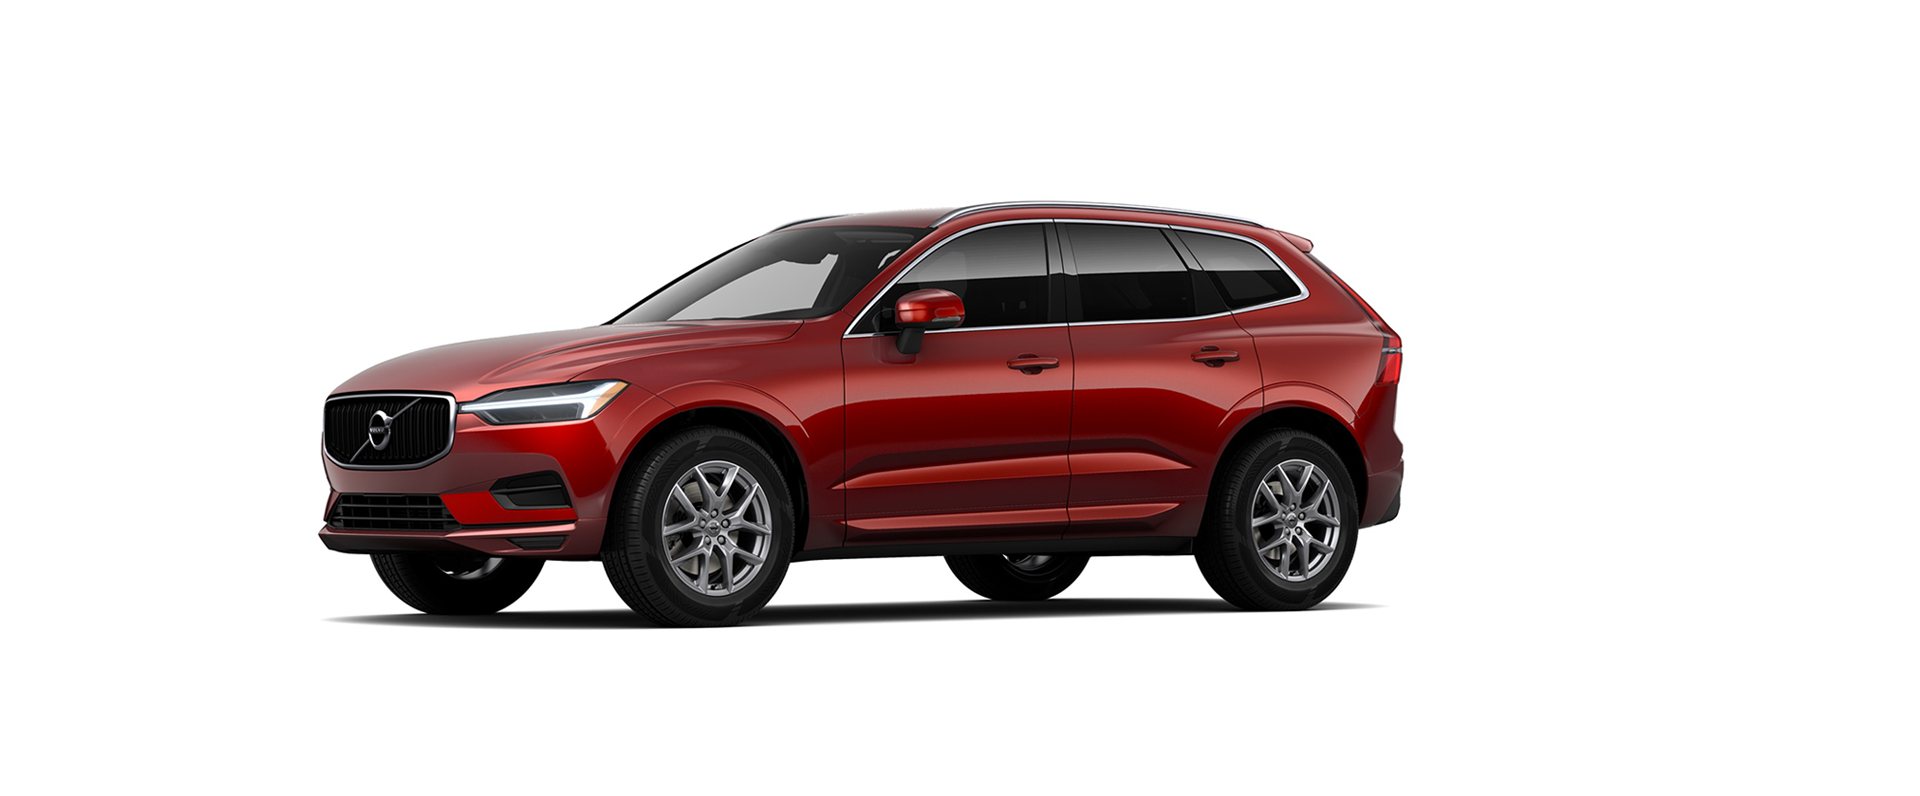
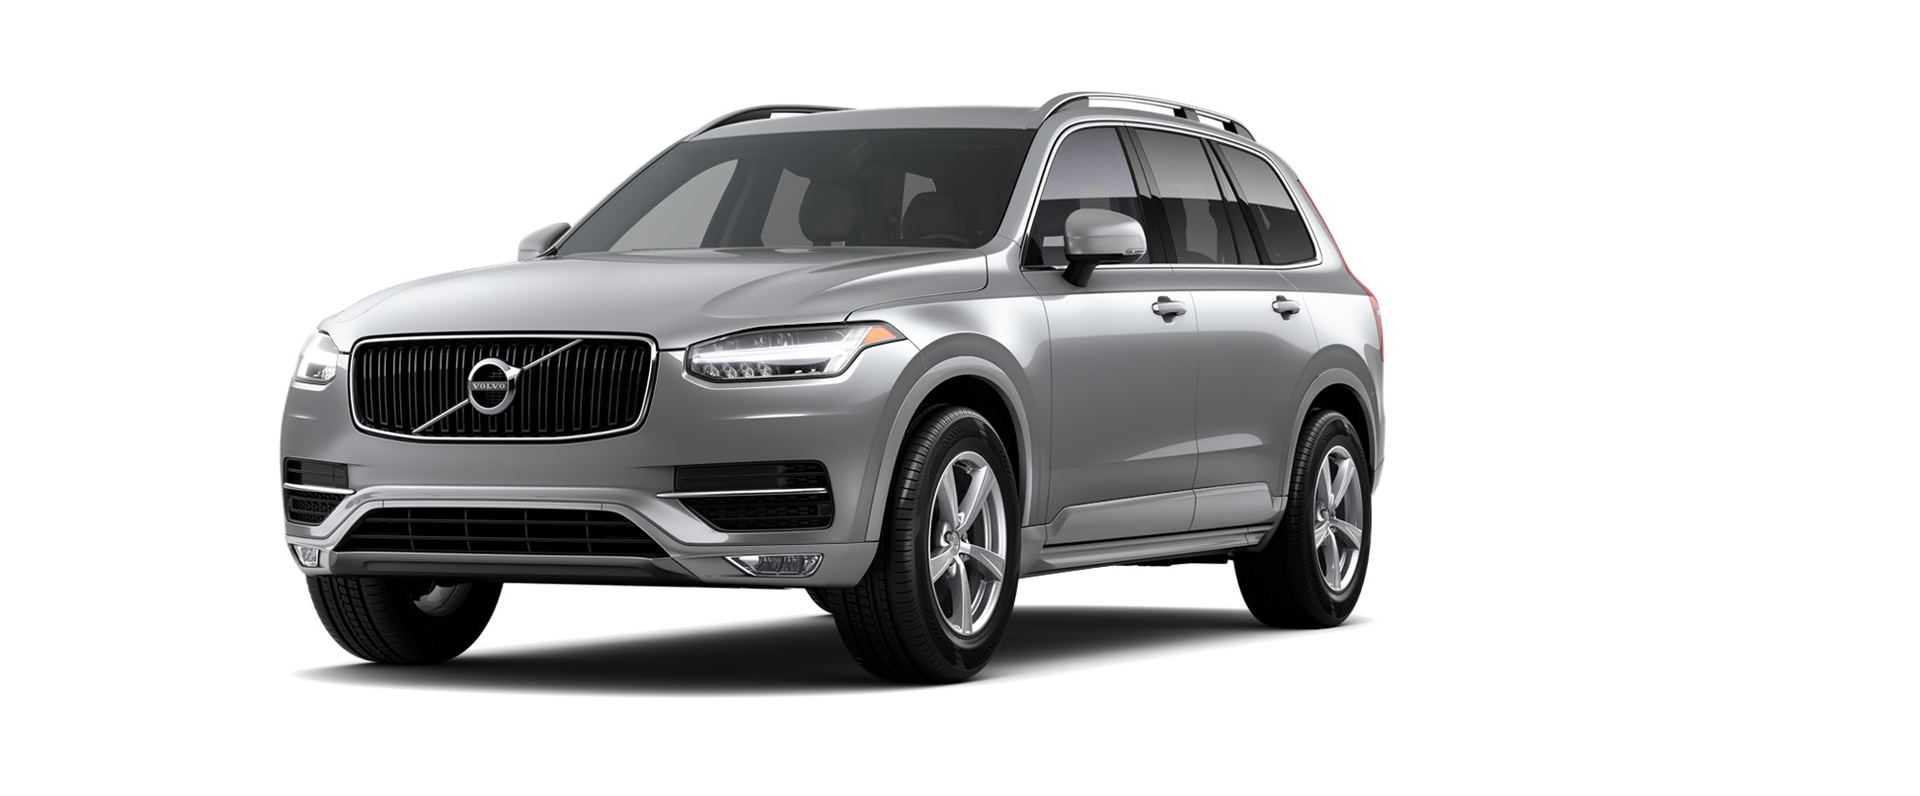
volvo specials update

diff --git a/volvo/index.html b/volvo/index.html
@@ -23,6 +23,8 @@
   </head>
   <body>
 
+
+
 <div>
     <div class="specialContainer">
       <div class="specialContent leftContent">
@@ -32,68 +34,30 @@
 
 
     <div class="specialContent rightContent">
-      <h3 class="yearMake">2017 VOLVO</h3>
-      <h2 class="modelTrim">S60 T5 AWD DYNAMIC</h2>
+      <h3 class="yearMake">2018 VOLVO</h3>
+      <h2 class="modelTrim">S60 T5 DYNAMIC AWD</h2>
       <h3 class="leaseHead">Lease this vehicle for:</h3>
       <div class="leaseQuoteSection">
-          <h1 class="lease">$198</h1>
+          <h1 class="lease">$296</h1>
           <h3 class="monthsSections">PER MO • 36 MOS</h3>
       </div>
 
-      <h4 class="moneyDue">$3,378 DUE AT SIGNING</h4>
-      <a href="https://www.volvocarsramsey.com/new/Volvo/2017-Volvo-S60-ramsey-nj-dd4bb81e0a0e0a175837ce580353bca6.htm" class="linkButton" target="_parent">VIEW VEHICLE</a>
+      <!--<h4 class="moneyDue">$3,189 DUE AT SIGNING</h4> -->
+      <a href="https://www.volvocarsramsey.com/new/Volvo/2018-Volvo-S60-ramsey-nj-8f7cf2360a0e0a6b244008147b472610.htm" class="linkButton" target="_parent">VIEW VEHICLE</a>
     </div>
 
     <div class="fineprint">
 
       <p class="disclaimer">
 
-      VIN H2428662. Stk VOH0200. 4 Dr, 4 Cylinder, Auto w/OD,mileage: 39 mi., air conditioning, power steering/ABS brakes/windows/locks/mirrors, cd/MP3, Leather Interior, Heated Seats, Side Airbags, Moonroof, Alarm System. MSRP: $37970. $3378 due at inception. $3180 down + 1st mo pymt $198+ bank fee incl. + $0 sec dep. $7128 ttl pymts/$17845 residual.Leather Interior, Heated Seats, Side Airbags, Moonroof, Alarm System Prices include all costs to be paid by a consumer except for licensing, registration, and taxes. Tier 1 credit approval thru primary lender. Lessee resp. for excess wear/tear. 7500 mi. per yr/.25¢ per mi. over thereafter. See dealer for complete details. Not resp. for typos. Offers expire 2/28/18.
+        4 DR AWD, 2.0L 4 cylinder turbocharged, 8 speed AUTOMATIC, air conditioning, power steering/ABS brakes/windows/locks/heated mirrors/seats, vision package, Navigation/Audio package, Harman Kardon sound, cd/MP3, USB, Bluetooth®, remote start, heated front seats, moonroof,  heated steer wheel, alloys, keyless drive, traction control, MSRP: $41,695. Model code: S60T5DAWD. VIN #YV140MTL9J2453192.  Stk #VOJ0201. Due at inception: $3180 down pymt. + $296 1st mo. pymt. + $0 sec dep. + $695 bank fee (included) + $299 doc fee due at signing. $10,656 ttl pymts/$22,515 residual. Prices include all costs to be paid by a consumer except for licensing, registration, and taxes. Tier 1 credit approval thru primary lender. Lessee resp. for excess wear/tear. 7.5K mi. per yr/.25¢ per mi. over thereafter. Customer must provide a copy of either U.S. insurance documents showing name, address and expiration date. Supporting documentation must be available at time of delivery. Residency restrictions apply. Customers must meet all offer qualifications, if applicable. See dealer for complete details. Not resp. for typos. Offers expire 2/28/18.
+
 
       </p>
 
     </div>
 </div>
 
-
-
-
-
-<!--
-
-<div>
-    <div class="specialContainer">
-      <div class="specialContent leftContent">
-        <img src="images/car1.png" alt="Volvo Vehicle Image" class="vehicleImage">
-      </div>
-
-
-
-    <div class="specialContent rightContent">
-      <h3 class="yearMake">2017 VOLVO</h3>
-      <h2 class="modelTrim">S60 T5 AWD DYNAMIC</h2>
-      <h3 class="leaseHead">Lease this vehicle for:</h3>
-      <div class="leaseQuoteSection">
-          <h1 class="lease">$289</h1>
-          <h3 class="monthsSections">PER MO • 39 MOS</h3>
-      </div>
-
-      <h4 class="moneyDue">$3,189 DUE AT SIGNING</h4>
-      <a href="https://www.volvocarsramsey.com/new/Volvo/2017-Volvo-S60-ramsey-nj-dd4bb81e0a0e0a175837ce580353bca6.htm" class="linkButton" target="_parent">VIEW VEHICLE</a>
-    </div>
-
-    <div class="fineprint">
-
-      <p class="disclaimer">
-
-      VIN H2428662. Stk VOH0200. 4 Dr, 4 Cylinder, Auto w/OD,mileage: 39 mi., air conditioning, power steering/ABS brakes/windows/locks/mirrors, cd/MP3, Leather Interior, Heated Seats, Side Airbags, Moonroof, Alarm System. MSRP: $37970. $3378 due at inception. $3180 down + 1st mo pymt $198+ bank fee incl. + $0 sec dep. $7128 ttl pymts/$17845 residual.Leather Interior, Heated Seats, Side Airbags, Moonroof, Alarm System Prices include all costs to be paid by a consumer except for licensing, registration, and taxes. Tier 1 credit approval thru primary lender. Lessee resp. for excess wear/tear. 7500 mi. per yr/.25¢ per mi. over thereafter. See dealer for complete details. Not resp. for typos. Offers expire 2/28/18.
-
-      </p>
-
-    </div>
-</div>
-
--->
 
 
 
@@ -116,7 +80,7 @@
           <h3 class="monthsSections">PER MO • 36 MOS</h3>
       </div>
 
-      <h4 class="moneyDue">$3,478 DUE AT SIGNING</h4>
+    <!--<h4 class="moneyDue">$3,478 DUE AT SIGNING</h4>-->
       <a href="https://www.volvocarsramsey.com/used/Volvo/2017-Volvo-S60-ramsey-nj-2e3530e50a0e0adf43fd01e9a759f102.htm" class="linkButton" target="_parent">VIEW VEHICLE</a>
     </div>
 
@@ -151,7 +115,7 @@
           <h3 class="monthsSections">PER MO • 36 MOS</h3>
       </div>
 
-      <h4 class="moneyDue">$3,528 DUE AT SIGNING</h4>
+      <!-- <h4 class="moneyDue">$3,528 DUE AT SIGNING</h4> -->
       <a href="https://www.volvocarsramsey.com/new/Volvo/2017-Volvo-S60-ramsey-nj-2c400ee10a0e0adf3e0eb2a54872ba9f.htm" class="linkButton" target="_parent">VIEW VEHICLE</a>
     </div>
 
@@ -178,22 +142,22 @@
 
     <div class="specialContent rightContent">
       <h3 class="yearMake">2018 VOLVO</h3>
-      <h2 class="modelTrim">XC60 T5 MOMENTUM</h2>
+      <h2 class="modelTrim">XC90 T5 AWD</h2>
       <h3 class="leaseHead">Lease this vehicle for:</h3>
       <div class="leaseQuoteSection">
-          <h1 class="lease">$438</h1>
+          <h1 class="lease">$558</h1>
           <h3 class="monthsSections">PER MO • 39 MOS</h3>
       </div>
 
-      <h4 class="moneyDue">$3,888 DUE AT SIGNING</h4>
-      <a href="https://www.volvocarsramsey.com/new/Volvo/2018-Volvo-XC60-ramsey-nj-9d4f658a0a0e0ae867dfbbafb59aa427.htm" class="linkButton" target="_parent">VIEW VEHICLE</a>
+      <!-- <h4 class="moneyDue">$3,888 DUE AT SIGNING</h4> -->
+      <a href="https://www.volvocarsramsey.com/new/Volvo/2018-Volvo-XC90-ramsey-nj-2bb29f960a0e0ae7251725e06b3cf427.htm" class="linkButton" target="_parent">VIEW VEHICLE</a>
     </div>
 
     <div class="fineprint">
 
       <p class="disclaimer">
 
-        VIN J1002223. Stk VOJ0094. 5 Dr Hatch, 4 Cylinder, Auto,mileage: 4747 mi., air conditioning, power steering/ABS brakes/windows/locks/mirrors, cd/MP3, Climate Control, Leather Interior, Moonroof, convenience pkg,vision pkg,advancepkg,navigation. MSRP: $50440. $3888 due at inception. $3450 down + 1st mo pymt $438+ bank fee incl. + $0 sec dep. $17082 ttl pymts/$17472 residual.Climate Control, Leather Interior, Moonroof, convenience pkg,vision pkg,advancepkg,navigation Prices include all costs to be paid by a consumer except for licensing, registration, and taxes. Tier 1 credit approval thru primary lender. Lessee resp. for excess wear/tear. 7500 mi. per yr/.25¢ per mi. over thereafter. See dealer for complete details. Not resp. for typos. Offers expire 2/28/18.
+        4 DR AWD, 7 passenger, 2.0L 4 cylinder turbocharged, 8 speed automatic, air conditioning, power steering/ABS brakes/windows/locks/heated mirrors/seats, USB, Bluetooth®, Navigation, rear park camera/assist, 3rd row seat, roof rails, heated front seats, leather, convenience package, blind spot cross traffic alert, heated washer nozzles, leather, moonroof, vision package, blind spot cross traffic alert, 360º surround camera, protection package premier, alloys, metallic paint, birch wood inlays, keyless entry, traction control, MSRP: $56,585. Model code: XC90T5AWD. VIN #YV4102PK7J1340990. Stk #VOJ0375. Due at inception: $4100 down pymt. + $558 1st mo. pymt. + $0 sec dep. + $695 bank fee  (included) + $299 doc fee + licensing, registration and taxes due at signing. $21,762 ttl pymts/$32,819 residual. Prices include all costs to be paid by a consumer except for licensing, registration, and taxes. Tier 1 credit approval thru primary lender. Lessee resp. for excess wear/tear. 7.5K mi. per yr/.25¢ per mi. over thereafter. Residency restrictions apply. Customers must meet all offer qualifications, if applicable. See dealer for complete details. Not resp. for typos. Offers expire 2/28/18.
 
       </p>
 
@@ -220,7 +184,7 @@
           <h3 class="monthsSections">PER MO • 36 MOS</h3>
       </div>
 
-      <h4 class="moneyDue">$5,408 DUE AT SIGNING</h4>
+      <!-- <h4 class="moneyDue">$5,408 DUE AT SIGNING</h4> -->
       <a href="https://www.volvocarsramsey.com/new/Volvo/2017-Volvo-S90-ramsey-nj-f07d06d10a0e0aea2f49d6a7748ccc1a.htm" class="linkButton" target="_parent">VIEW VEHICLE</a>
     </div>
 

diff --git a/volvo/master.css b/volvo/master.css
@@ -90,7 +90,7 @@ font {
 
   font-size: 16px;
   font-weight: 600;
-  padding: 0 0 0 0;
+  padding: 0 0 10px 0;
   margin: 0px 0 0 0px;
   border: 0;
   line-height: 1; }
@@ -227,7 +227,7 @@ font {
   .monthsSections {
     flex: 1;
     font-size: 16px;
-    padding: 12px 0 0 0;
+    padding: 0 0 20px 0;
     margin: 0;
     border: 0; }
   .moneyDue {
